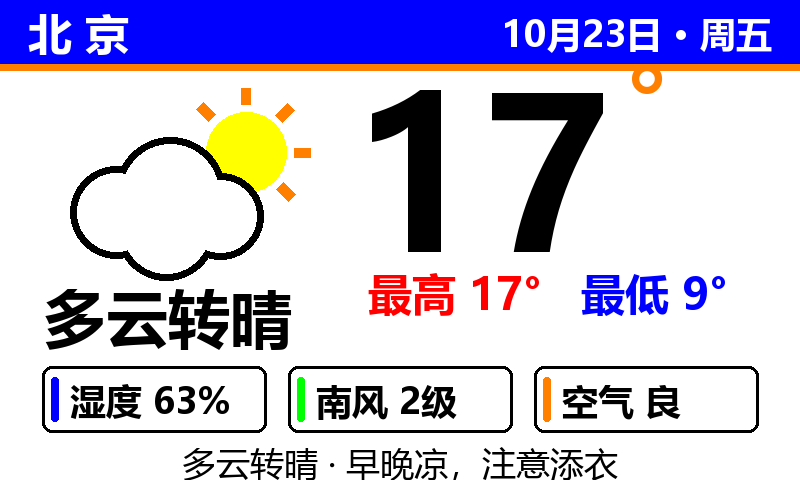
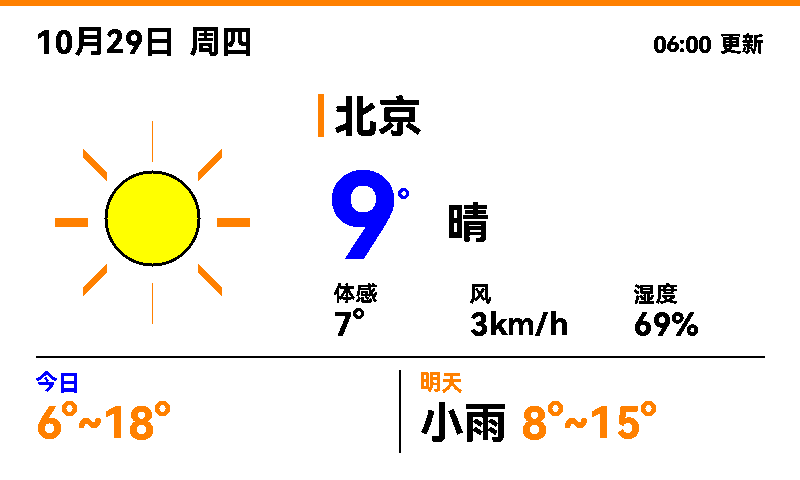
README 天气示例换成当前版式（固件同一套渲染器）
- docs/images/weather-example.png 重出：800x480、北京 9°/晴、今日 6~18°、明天小雨 8~15°，
  就是 2026-10-29 实机投到 A 面的那一版（87,922 bit = 10,991 B）
- _verify/host/make_weather_example.py：调 host.exe preview 出图，渲染器与固件共用
  ui/canvas/icons/font，所以示例图和屏上像素一致
- host.cpp 样例数据改成实机那版（北京、9 度、降水 0%、明天小雨）
- README/INDEX 标明示例图来源；gen_weather.py（旧 PIL 版式）标注已被取代

diff --git a/_verify/host/make_weather_example.py b/_verify/host/make_weather_example.py
@@ -1,0 +1,33 @@
+# -*- coding: utf-8 -*-
+"""生成 README 用的天气卡示例图（直接调用固件同一套 C++ 渲染器，保证和屏上一致）。
+
+用法：
+    cd _verify/host && python make_weather_example.py
+产物：../../docs/images/weather-example.png（800x480）
+
+前置：host.exe 已编译（见 docs/ESP32_WEATHER.md §8）。
+"""
+import os, subprocess, sys
+
+HERE = os.path.dirname(os.path.abspath(__file__))
+OUT = os.path.join(HERE, "..", "..", "docs", "images", "weather-example.png")
+CODE, TEMP = 0, 9          # 晴、9 度（与 2026-10-29 实机那版一致）
+
+
+def main():
+    exe = os.path.join(HERE, "host.exe")
+    if not os.path.exists(exe):
+        sys.exit("先编译 host.exe：见 docs/ESP32_WEATHER.md §8")
+    ppm = os.path.join(HERE, "_example.ppm")
+    subprocess.run([exe, "preview", ppm, str(CODE), str(TEMP)], check=True)
+    try:
+        from PIL import Image
+        Image.open(ppm).convert("RGB").save(OUT)
+    finally:
+        os.remove(ppm)
+    print("已更新", os.path.normpath(OUT))
+
+
+if __name__ == "__main__":
+    main()
+

diff --git a/_verify/host/host.cpp b/_verify/host/host.cpp
@@ -19,11 +19,12 @@ static void sample(int code, int temp) {
   Weather w;
   memset(&w, 0, sizeof w);
   w.valid = true;
+  // 与 2026-10-29 实机抓到的那一版一致（北京 9 度、晴、今日 6~18、明天小雨 8~15）
   w.y = 2026; w.mo = 10; w.d = 29; w.dow = 4; w.hh = 6; w.mi = 0;
-  strcpy(w.city, "上海");
-  w.temp = temp; w.feels = temp - 1; w.code = code;
-  w.hum = 68; w.wind = 12; w.pop = 30;
-  w.tmax = temp + 3; w.tmin = temp - 6;
+  strcpy(w.city, "北京");
+  w.temp = temp; w.feels = temp - 2; w.code = code;
+  w.hum = 69; w.wind = 3; w.pop = 0;
+  w.tmax = 18; w.tmin = 6;
   w.code2 = 61; w.tmax2 = 15; w.tmin2 = 8;
   ui_begin(w);
 }
